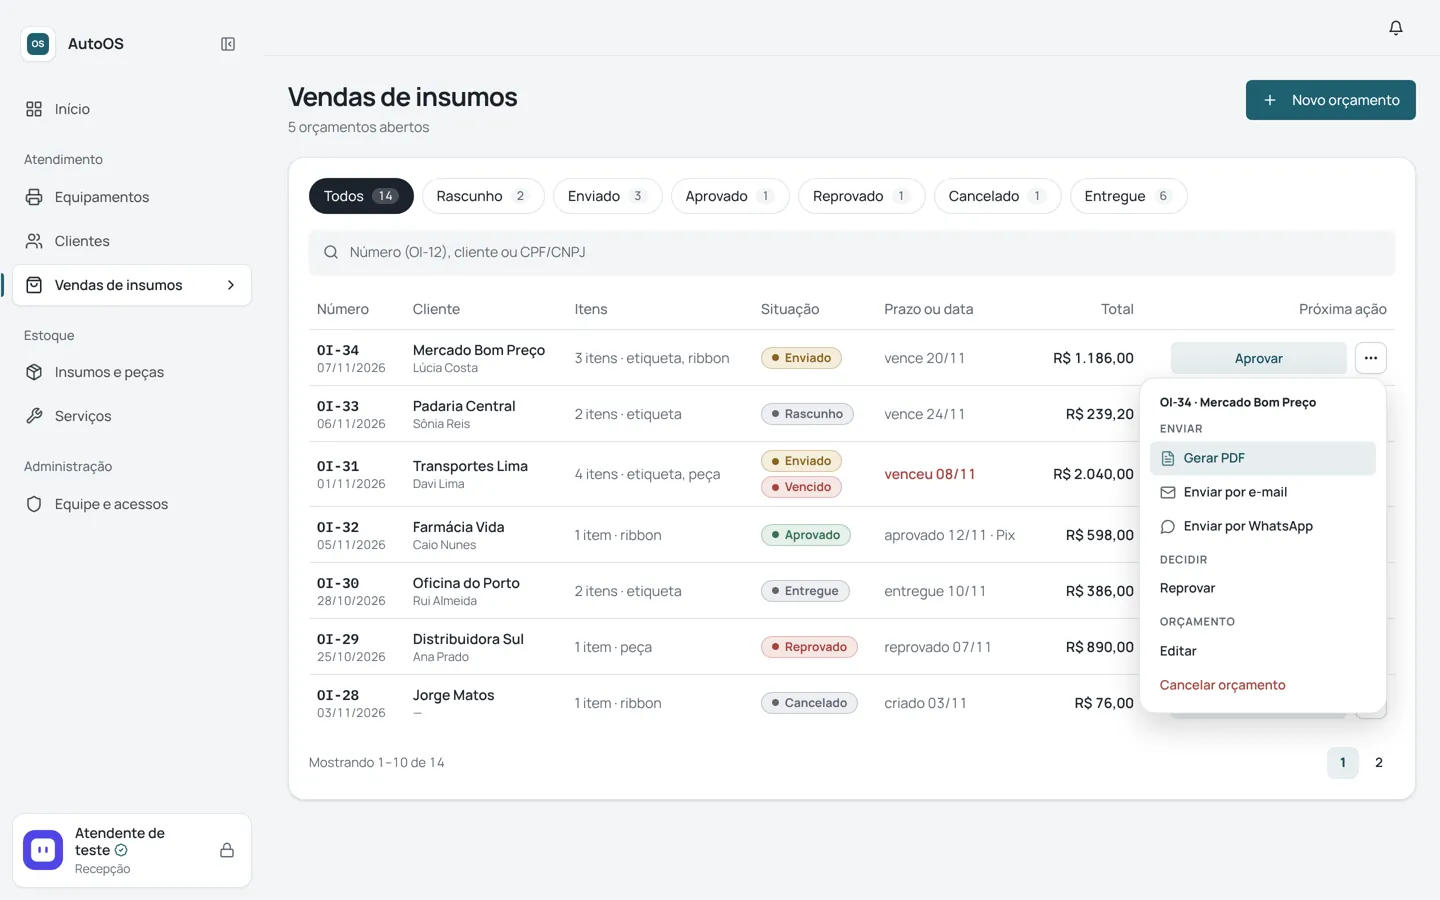
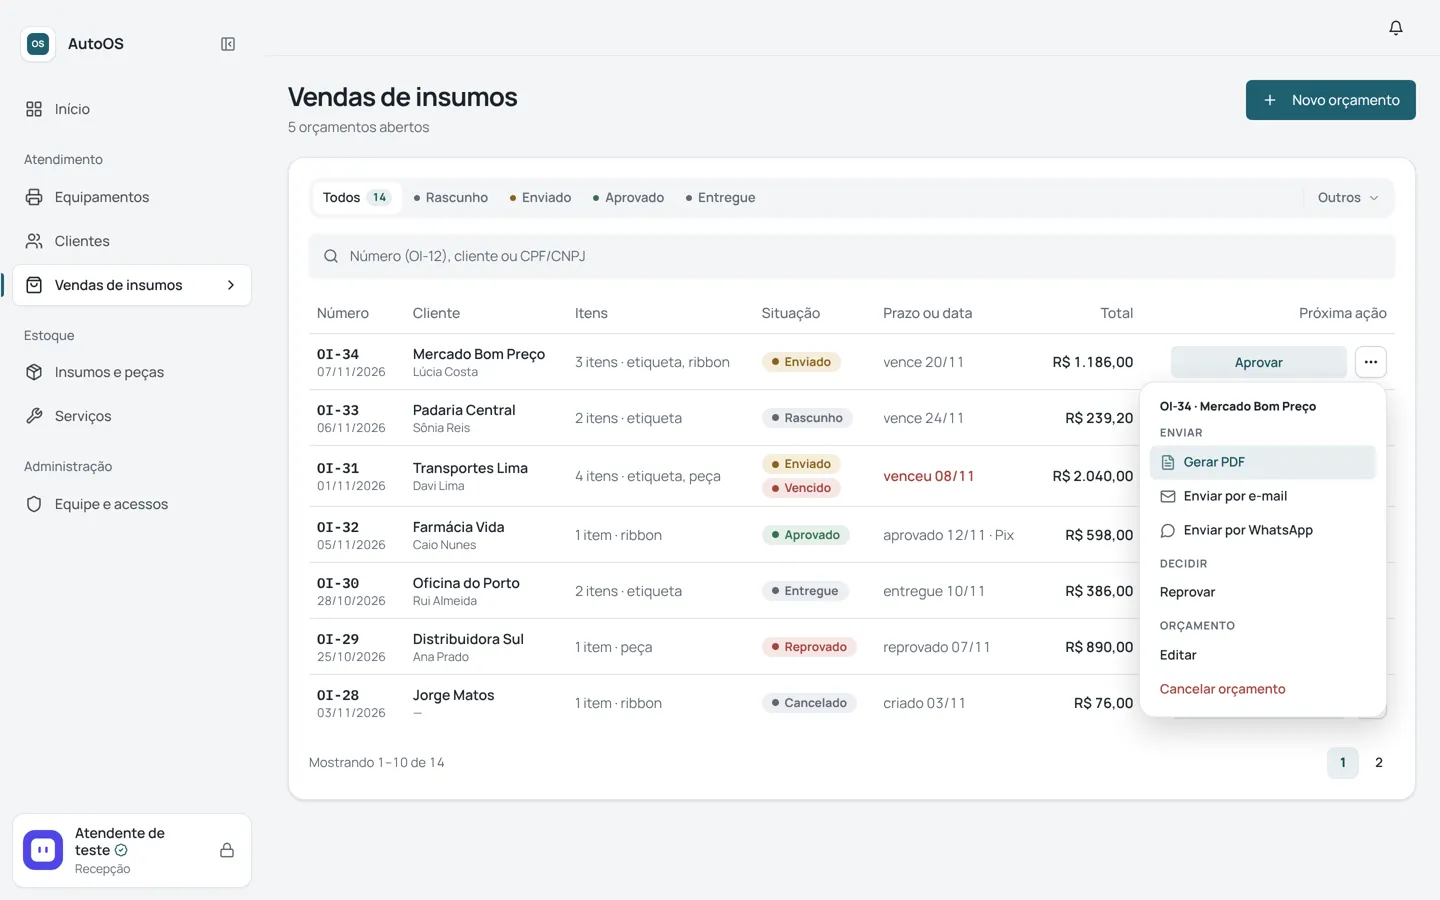
Vendas de insumos: filtro de situação igual ao de Equipamentos
- A lista usa o FiltroDeStatus de Equipamentos: faixa com Todos,
  Rascunho, Enviado, Aprovado e Entregue, e Reprovado e Cancelado em
  "Outros"; o número aparece só no filtro ligado.
- FiltroDeStatus aceita a família de cor da opção (Enviado é espera,
  Aprovado é ok), para status que não são de equipamento.
- Selo da coluna Situação sem borda, como o de Equipamentos.

Claude-Session: https://claude.ai/code/session_01DaV7KyD8FgGcVZLh5CSD1y

diff --git a/src/pages/insumos/OrcamentosInsumosTab.tsx b/src/pages/insumos/OrcamentosInsumosTab.tsx
@@ -7,6 +7,7 @@ import { FileText, Lock, Mail, MessageCircle, Package, Plus, Search } from "luci
 import { Button } from "@/components/ui/button";
 import { Card, CardContent } from "@/components/ui/card";
 import { ActionPriorityRow, type PriorityAction } from "@/components/ui/action-priority-row";
+import { FiltroDeStatus, type OpcaoFiltroStatus } from "@/components/equipamentos/FiltroDeStatus";
 import { Input } from "@/components/ui/input";
 import { PaginationControls } from "@/components/ui/pagination-controls";
 import { Table, TableBody, TableCell, TableHead, TableHeader, TableRow } from "@/components/ui/table";
@@ -19,6 +20,7 @@ import {
   prazoOuData,
   proximaAcaoVenda,
   STATUS_ORCAMENTO_INSUMOS_COR,
+  STATUS_ORCAMENTO_INSUMOS_FAMILIA,
   STATUS_ORCAMENTO_INSUMOS_LABEL,
   type TipoAcaoVenda,
 } from "@/lib/orcamento-insumos";
@@ -27,7 +29,6 @@ import { formatCurrency } from "@/lib/utils";
 import { OrcamentoInsumosDialog, type AcaoInicialOrcamentoInsumos } from "@/pages/insumos/OrcamentoInsumosDialog";
 import {
   SENSITIVE_PERMISSIONS,
-  STATUS_ORCAMENTO_INSUMOS,
   type OrcamentoInsumos,
   type StatusOrcamentoInsumos,
 } from "@/types";
@@ -43,15 +44,26 @@ interface OrcamentosInsumosTabProps {
 
 const COLUNAS = 7;
 
+function opcaoFiltro(status: StatusOrcamentoInsumos): OpcaoFiltroStatus {
+  return { value: status, label: STATUS_ORCAMENTO_INSUMOS_LABEL[status], familia: STATUS_ORCAMENTO_INSUMOS_FAMILIA[status] };
+}
+
+/** Como em Equipamentos: o fluxo principal na faixa; desvio e encerrado em "Outros". */
+const FILTRO_PRINCIPAIS: OpcaoFiltroStatus[] = [
+  { value: "TODOS", label: "Todos" },
+  ...(["RASCUNHO", "ENVIADO", "APROVADO", "ENTREGUE"] as const).map(opcaoFiltro),
+];
+const FILTRO_OUTROS: OpcaoFiltroStatus[] = (["REPROVADO", "CANCELADO"] as const).map(opcaoFiltro);
+
 function SeloSituacao({ status, vencido }: { status: StatusOrcamentoInsumos; vencido: boolean }) {
   return (
     <div className="flex flex-col items-start gap-1">
-      <span className={`inline-flex items-center gap-1.5 rounded-full border px-2.5 py-0.5 text-xs font-bold ${STATUS_ORCAMENTO_INSUMOS_COR[status]}`}>
+      <span className={`inline-flex items-center gap-1.5 rounded-full px-2.5 py-0.5 text-xs font-bold ${STATUS_ORCAMENTO_INSUMOS_COR[status]}`}>
         <span aria-hidden="true" className="h-[7px] w-[7px] rounded-full bg-current" />
         {STATUS_ORCAMENTO_INSUMOS_LABEL[status]}
       </span>
       {vencido && (
-        <span className="inline-flex items-center gap-1.5 rounded-full border border-status-bad/30 bg-status-bad-bg px-2.5 py-0.5 text-xs font-bold text-status-bad">
+        <span className="inline-flex items-center gap-1.5 rounded-full bg-status-bad-bg px-2.5 py-0.5 text-xs font-bold text-status-bad">
           <span aria-hidden="true" className="h-[7px] w-[7px] rounded-full bg-current" />
           Vencido
         </span>
@@ -162,28 +174,14 @@ export function OrcamentosInsumosTab({ onEstoqueAlterado, contagemPorStatus, ren
             </p>
           )}
 
-          <div role="group" aria-label="Filtrar por situação" className="flex flex-wrap gap-2">
-            {(["TODOS", ...STATUS_ORCAMENTO_INSUMOS] as const).map((item) => {
-              const ativo = status === item;
-              const contagem = item === "TODOS"
-                ? totalGeral
-                : contagemPorStatus ? (contagemPorStatus.find((c) => c.status === item)?.total ?? 0) : undefined;
-              return (
-                <button
-                  key={item}
-                  type="button"
-                  aria-pressed={ativo}
-                  onClick={() => setStatus(item)}
-                  className={`inline-flex h-9 items-center gap-2 rounded-full border px-3.5 text-sm font-medium transition-colors duration-rapida ${ativo ? "border-foreground bg-foreground text-background" : "bg-card hover:border-ctl"}`}
-                >
-                  {item === "TODOS" ? "Todos" : STATUS_ORCAMENTO_INSUMOS_LABEL[item]}
-                  {contagem !== undefined && (
-                    <span className={`rounded-full px-1.5 text-xs tabular-nums ${ativo ? "bg-background/20" : "bg-muted text-muted-foreground"}`}>{contagem}</span>
-                  )}
-                </button>
-              );
-            })}
-          </div>
+          <FiltroDeStatus
+            rotulo="Filtrar por situação"
+            principais={FILTRO_PRINCIPAIS}
+            outros={FILTRO_OUTROS}
+            valor={status}
+            total={loading ? undefined : total}
+            onChange={(valor) => setStatus(valor as StatusOrcamentoInsumos | "TODOS")}
+          />
 
           <div className="relative">
             <Search className="absolute left-3.5 top-1/2 h-4 w-4 -translate-y-1/2 text-muted-foreground" />

diff --git a/src/components/equipamentos/FiltroDeStatus.tsx b/src/components/equipamentos/FiltroDeStatus.tsx
@@ -1,7 +1,7 @@
 import { useEffect, useRef } from "react";
 import { ChevronDown } from "lucide-react";
 import { cn } from "@/lib/utils";
-import { FAMILIA_COR_CHEIA, statusFamilia } from "@/lib/status-familia";
+import { FAMILIA_COR_CHEIA, statusFamilia, type StatusFamilia } from "@/lib/status-familia";
 import { Select, SelectContent, SelectItem, SelectTrigger } from "@/components/ui/select";
 
 export interface OpcaoFiltroStatus {
@@ -9,12 +9,14 @@ export interface OpcaoFiltroStatus {
   label: string;
   /** Nome completo, quando `label` é abreviado. */
   titulo?: string;
+  /** Cor do ponto, quando o status não é de equipamento (ex.: orçamento de insumos). */
+  familia?: StatusFamilia;
 }
 
 const TODOS = "TODOS";
 
-function Ponto({ status }: { status: string }) {
-  return <span aria-hidden="true" className={cn("h-1.5 w-1.5 shrink-0 rounded-full", FAMILIA_COR_CHEIA[statusFamilia(status)])} />;
+function Ponto({ status, familia }: { status: string; familia?: StatusFamilia }) {
+  return <span aria-hidden="true" className={cn("h-1.5 w-1.5 shrink-0 rounded-full", FAMILIA_COR_CHEIA[familia ?? statusFamilia(status)])} />;
 }
 
 /**
@@ -71,7 +73,7 @@ export function FiltroDeStatus({
                   : "font-semibold text-muted-foreground hover:bg-card/50 hover:text-foreground",
               )}
             >
-              {opcao.value !== TODOS && <Ponto status={opcao.value} />}
+              {opcao.value !== TODOS && <Ponto status={opcao.value} familia={opcao.familia} />}
               {opcao.label}
               {ligado && contador}
             </button>
@@ -93,7 +95,7 @@ export function FiltroDeStatus({
             >
               {outroLigado ? (
                 <span className="inline-flex items-center gap-1.5">
-                  <Ponto status={outroLigado.value} />
+                  <Ponto status={outroLigado.value} familia={outroLigado.familia} />
                   {outroLigado.label}
                   {contador}
                 </span>
@@ -106,7 +108,7 @@ export function FiltroDeStatus({
               {outros.map((opcao) => (
                 <SelectItem key={opcao.value} value={opcao.value} className="text-[13px]">
                   <span className="inline-flex items-center gap-2">
-                    <Ponto status={opcao.value} />
+                    <Ponto status={opcao.value} familia={opcao.familia} />
                     {opcao.label}
                   </span>
                 </SelectItem>

diff --git a/src/lib/orcamento-insumos.ts b/src/lib/orcamento-insumos.ts
@@ -5,6 +5,7 @@
  * Aqui ficam o cálculo da prévia do total, o saldo, as ações por status e os textos de envio.
  */
 import { parseTimestampPostgres, todayLocalIsoDate } from "@/lib/date-utils";
+import type { StatusFamilia } from "@/lib/status-familia";
 import { formatCurrency } from "@/lib/utils";
 import type {
   OrcamentoInsumos,
@@ -19,6 +20,16 @@ export const STATUS_ORCAMENTO_INSUMOS_LABEL: Record<StatusOrcamentoInsumos, stri
   REPROVADO: "Reprovado",
   CANCELADO: "Cancelado",
   ENTREGUE: "Entregue",
+};
+
+/** Família de cor de cada situação (mesmas cinco famílias dos equipamentos). */
+export const STATUS_ORCAMENTO_INSUMOS_FAMILIA: Record<StatusOrcamentoInsumos, StatusFamilia> = {
+  RASCUNHO: "neutral",
+  ENVIADO: "wait",
+  APROVADO: "ok",
+  REPROVADO: "bad",
+  CANCELADO: "neutral",
+  ENTREGUE: "neutral",
 };
 
 /** Cores do selo de status (Tailwind), com par claro/escuro. */
